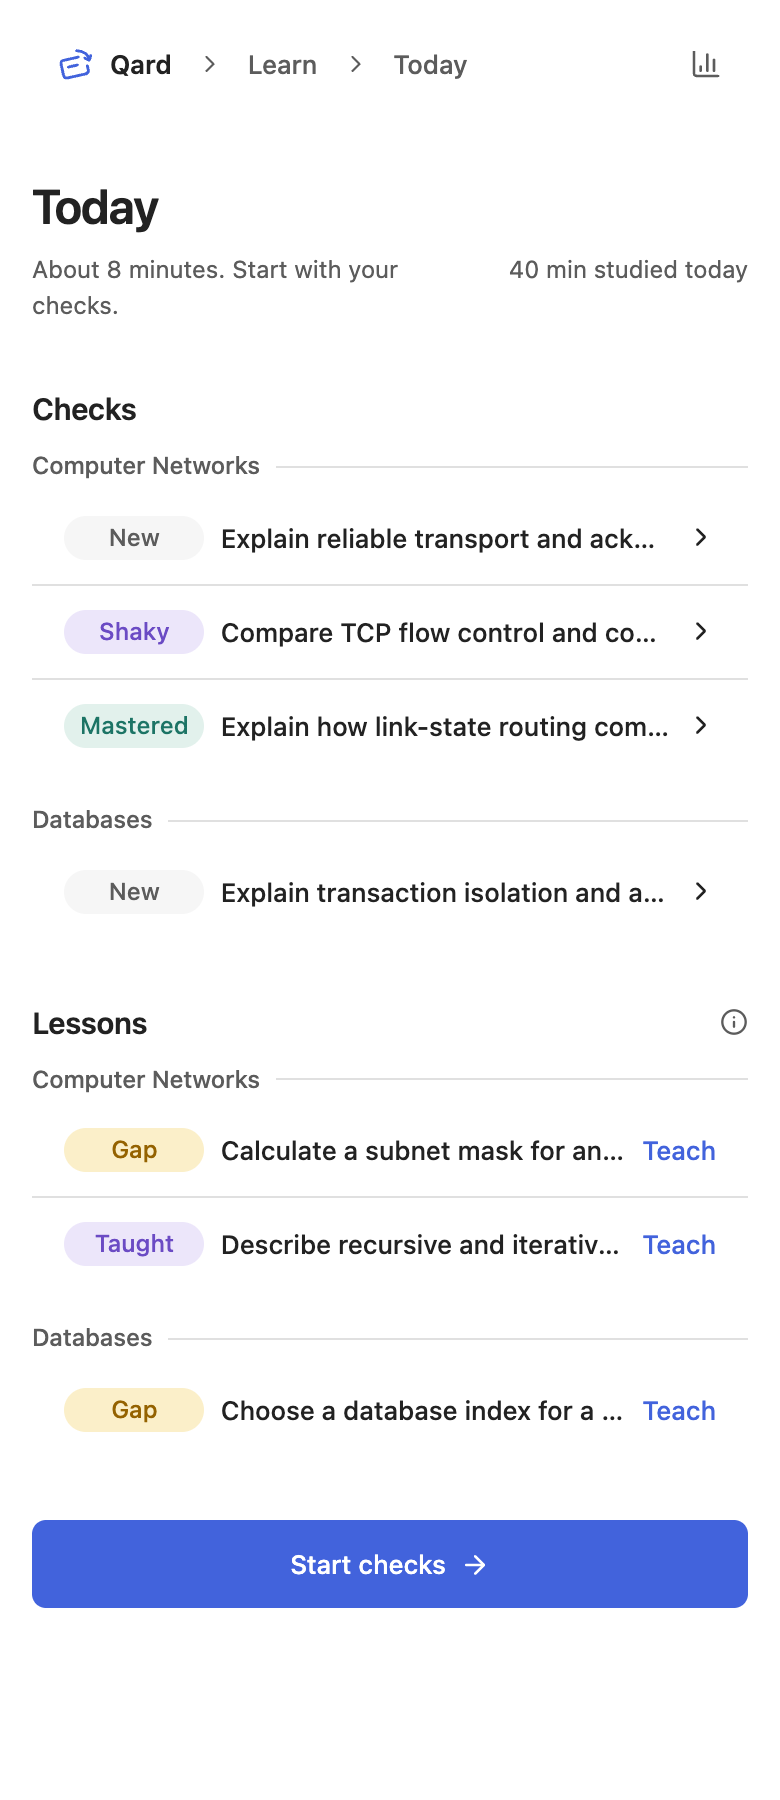
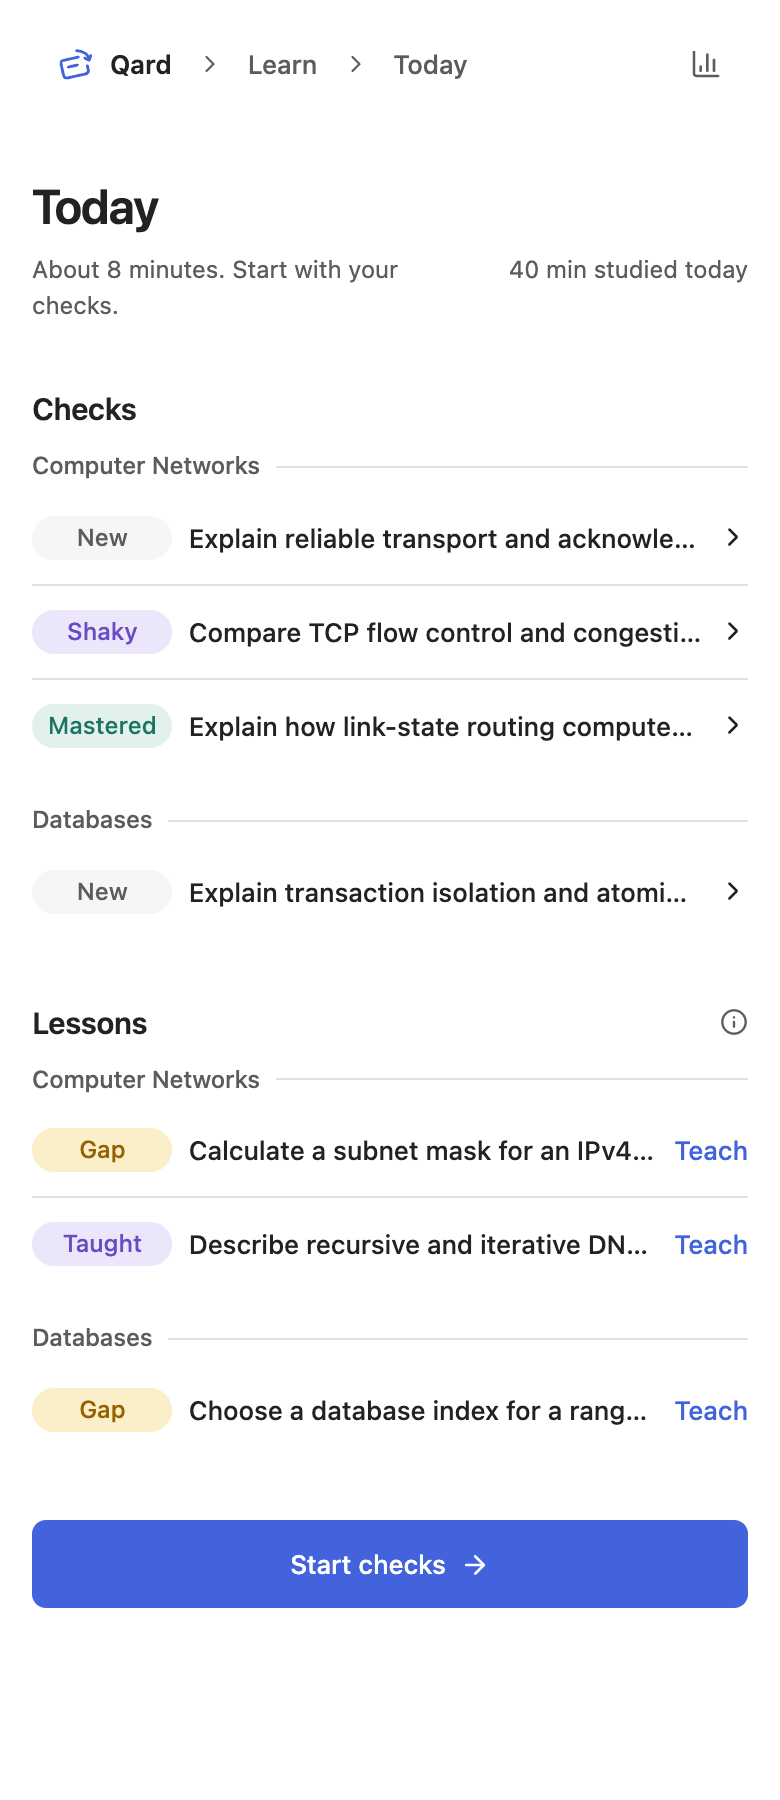
Refresh aligned learning rows and objective metadata comparisons

diff --git a/docs/images/ui-main-latest/audit-report.md b/docs/images/ui-main-latest/audit-report.md
@@ -1,3 +1,18 @@
+# Learning rows and objective metadata verification
+
+Latest source `f6372bb5c11e89455a18394b9c84fd47c19ce284`. Screenshot baseline remains upstream main `70056821914f0dae910b52a20f1fa3329b04d0ac`.
+
+- Wrapped suggestion actions use two equal grid tracks across the full row at 800px and below; single-action states span both tracks. Desktop actions retain their centered placement beside the question/answer body.
+- Today flat rows and Learn summary rows remove horizontal padding so content aligns with headings. Nested topic structure and activity rows outside Learn retain their established layout.
+- Learn course rows return to transparent resting surfaces and neutral borders/colors. Their neutral hover remains visible; lesson/update category colors remain intact.
+- Objective metadata starts with the status pill; date and a neutral info icon sit at the trailing edge. The icon title/label preserves the exact latest evidence message or No evidence yet. Full-width titles no longer contain a pill or hidden status-sizing scaffold. Due-date and filtering semantics are unchanged.
+- All 56 browser cases passed across 320, 390, 640, 800, 801 and 1100px panes, plus a narrow pane in a 1440px window, in both themes. They check equal/full-width suggestion actions, desktop vertical centering, row/heading alignment, neutral course surfaces, evidence tooltips and title width, and overflow.
+- Full check passed with 767 tests in 95 suites, formatting, typecheck, source lint, CSS lint, production build and release verification. The final CSS corrections passed formatting, CSS lint, build/release checks and complete browser confirmation. No test cases were added.
+- Eight existing main-to-latest comparison pairs are refreshed; gallery remains 52 pairs.
+- The isolated Obsidian build was refreshed and current working plugin/global Obsidian files were preserved using before/after hashes.
+
+## Prior verification
+
 # Lesson questions, suggestions and pending operations verification
 
 Latest source `bb86bda99c6ba6562fa9de10451180437ef1098f`. Screenshot baseline remains upstream main `70056821914f0dae910b52a20f1fa3329b04d0ac`.
